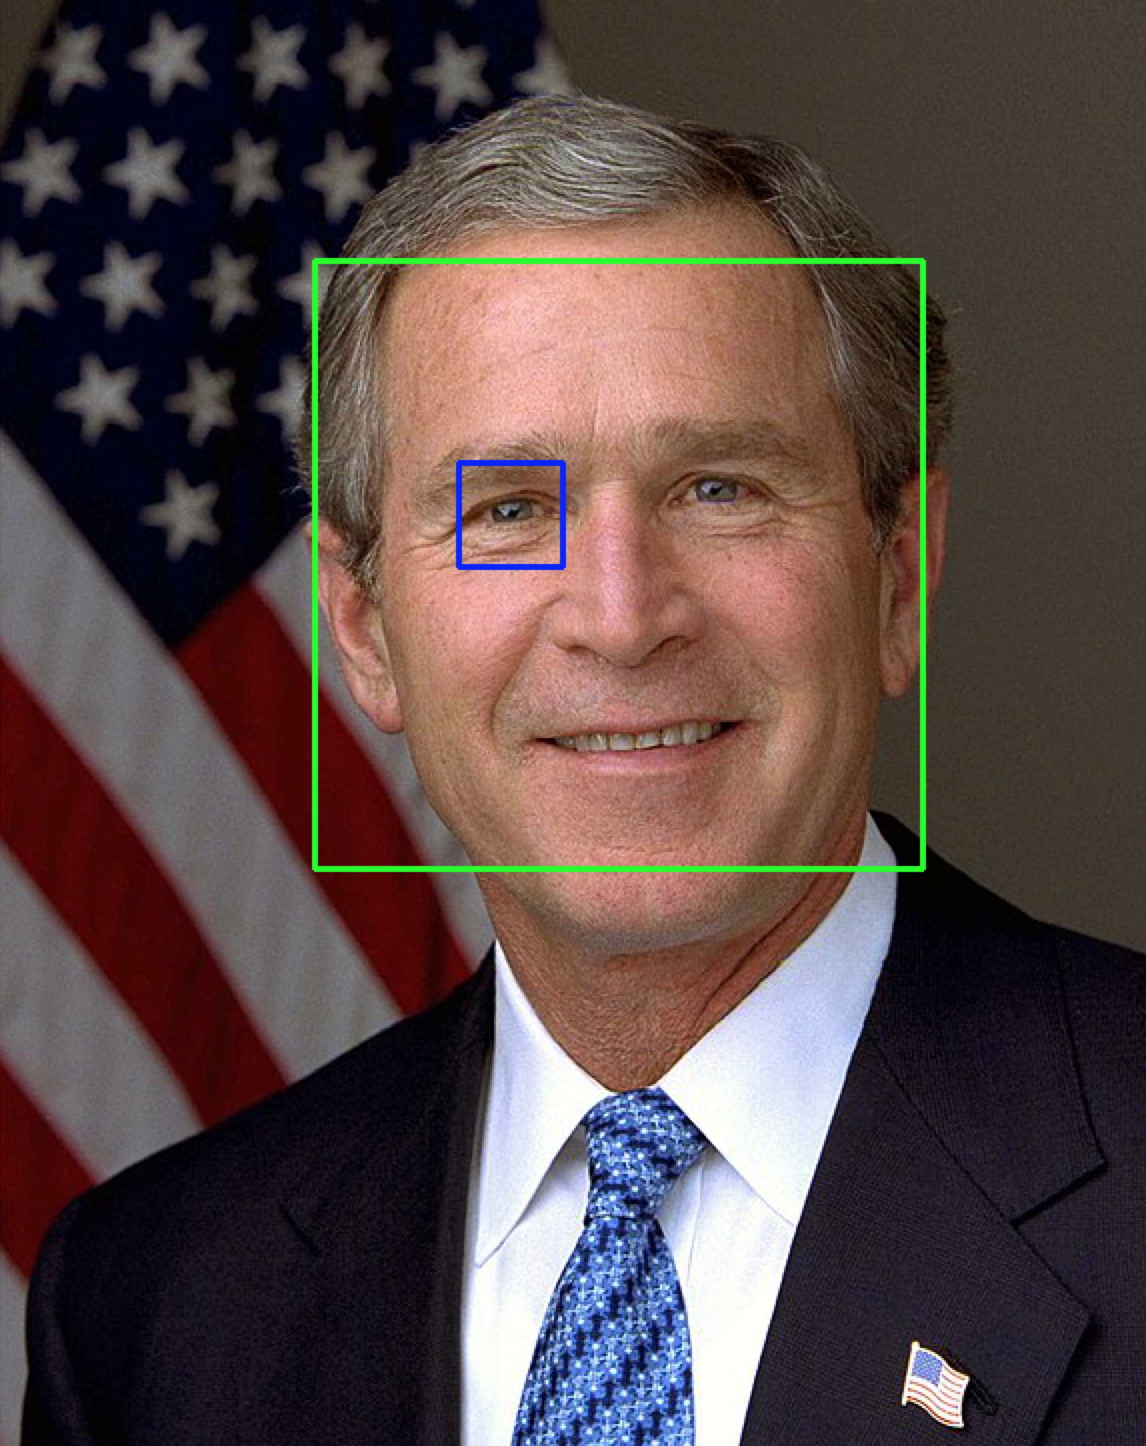
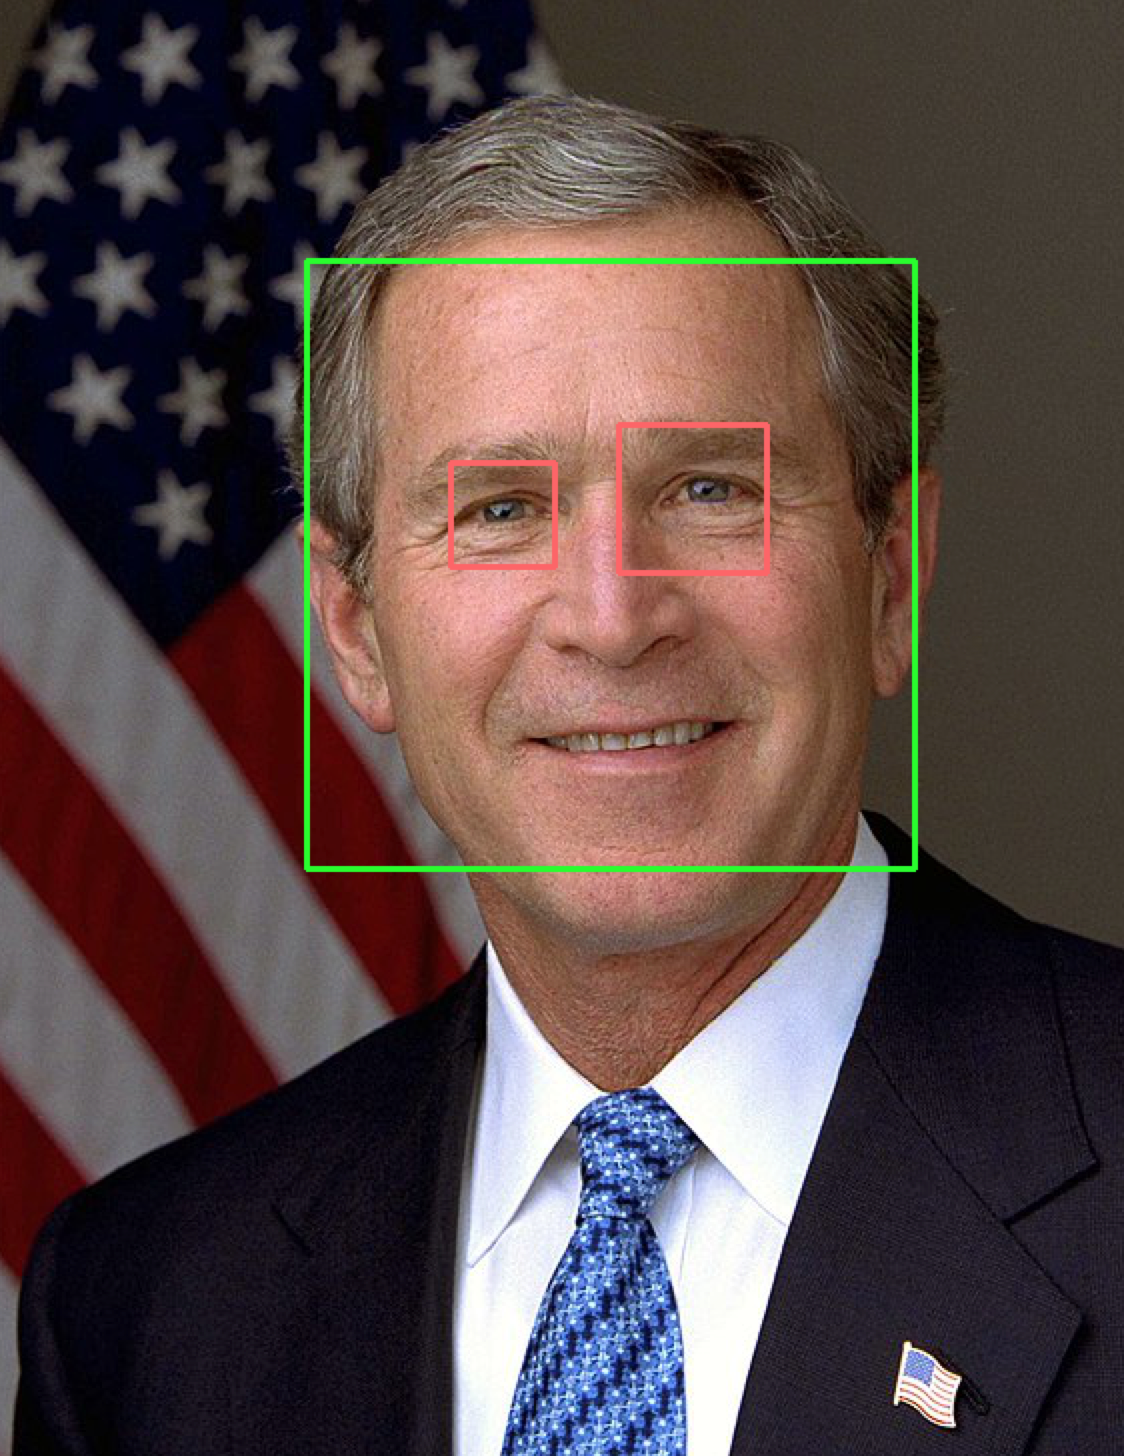
updating feature finder parameters and output image.

diff --git a/find_face_image.py b/find_face_image.py
@@ -49,13 +49,14 @@ def detect(img, cascade):
     # https://github.com/opencv/opencv/blob/2.4/samples/python2/facedetect.py
     rects = cascade.detectMultiScale(gray, 
                         scaleFactor=1.3, 
-                        minNeighbors=4, 
+                        minNeighbors=1, 
                         minSize=(30, 30), 
                         flags = cv.CV_HAAR_SCALE_IMAGE)
 
     if len(rects) == 0:
         return []
 
+    print(rects)
     # Turn width and height of box
     # into plot-ready image coordinates.
     # rects contains (x,y),(w,h), return (x,y),(x+w,x+h)
@@ -72,32 +73,31 @@ if __name__=="__main__":
     nested = cv2.CascadeClassifier("haarcascade_eye.xml")
 
     # Get rectangle for entire face
+    print("From faces:")
     rects = detect(gray, cascade)
-    print("Number of faces: %d"%(len(rects)))
 
     # Draw face rectangles
     vis = image.copy()
     draw_rects(vis, rects, (0,255,0))
 
+    # Get eye subrectangle
+    print("From outside:")
     subrects = detect(gray, nested)
+
+    # Draw eye subrectangle
     draw_rects(vis, subrects, (255, 0, 0))
 
-    ### for i, (x1, y1, x2, y2) in enumerate(rects):
-    ###     # Crop to just this face
-    ###     grayeye = gray[y1:y2, x1:x2]
-    ###     viseye  = vis[y1:y2,  x1:x2]
-    ###     cv2.imshow('duh',viseye)
-    ###     cv2.waitKey()
+    for i, (x1, y1, x2, y2) in enumerate(rects):
+        # Crop to just this face
+        grayeye = gray[y1:y2, x1:x2]
+        viseye  = vis[y1:y2,  x1:x2]
 
-    ###     # Get rectangle for eye
-    ###     subrects = detect(grayeye.copy(), nested)
-
-    ###     print(subrects)
-
-    ###     draw_rects(viseye, subrects, (255, 0, 0))
-    ###     print("    Number of eyes in rectangle %d: %d"%(i+1,len(subrects)))
+        # Get rectangle for eye
+        print("From inside:")
+        subrects = detect(grayeye.copy(), nested)
+        #draw_rects(viseye, subrects, (100,100,255))
+        draw_rects(vis, subrects, (100,100,255))
 
     cv2.imshow('facedetect', vis)
     cv2.waitKey()
-
 
